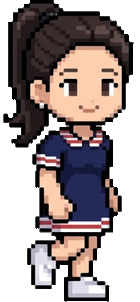
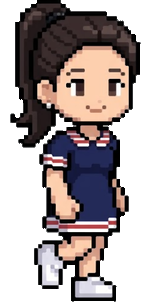
Pitcha: usa a pose parada enviada e padroniza os 5 frames
- Idle vem da imagem enviada (já recortada, na escala do jogo: o rosto tem
  a mesma largura dos frames de caminhada, 61 px)
- Os 5 arquivos saem com o mesmo canvas (154x302) e o centro de massa do
  corpo alinhado: variação de 0,9 px entre idle e caminhada
- tools/sheet_to_sprites.py aceita idle já recortado (--idle-image,
  --idle-scale) e passa a limpar vãos opacos entre braço e corpo (restos de
  fundo), como o do idle enviado
- Pitcha sai da linha de base de sprites (nenhuma faixa pendente)

Claude-Session: https://claude.ai/code/session_01JWARVxodwXbVVRqa2zBGJ1

diff --git a/tools/sheet_to_sprites.py b/tools/sheet_to_sprites.py
@@ -14,7 +14,7 @@ Uso (da raiz do repo, precisa de Pillow e numpy):
 
 Saída: assets/<name>_walk1..N.png e assets/<name>_idle.png (alpha só 0 ou 255).
 A ordem dos frames é a de leitura (esquerda->direita, cima->baixo).
-Para uma pose parada vinda de outra imagem, use --idle-image (processada com a mesma escala).
+Para uma pose parada vinda de outra imagem, use --idle-image (se já tiver fundo transparente é usada como está).
 Dependências só do desenvolvimento: o jogo continua sem build e sem npm/pip.
 """
 import argparse
@@ -138,6 +138,52 @@ def body_anchor_x(img):
     return float(xs.mean())
 
 
+def clear_gap_strips(img, max_width=8, min_rows=12, min_black_run=3):
+    """Torna transparentes as faixas verticais de 1–8 px de pixels CLAROS entre dois contornos pretos
+    (≥ min_rows linhas seguidas): é o vão entre braço e corpo que sobrou opaco (restos do fundo/pele).
+    Cabelo escuro e sombras são ignorados. Mesmo critério do teste tests/lib/sprites.js."""
+    a = np.array(img)
+    h, w, _ = a.shape
+    black = (a[..., 3] > 0) & (a[..., :3].max(axis=2) < 45)
+    light = (a[..., 3] > 0) & (a[..., :3].astype(int).sum(axis=2) > 270)
+    rows = []
+    for y in range(h):
+        gaps, x, runs = [], 0, []
+        while x < w:
+            if black[y, x]:
+                j = x
+                while j + 1 < w and black[y, j + 1]:
+                    j += 1
+                runs.append((x, j)); x = j + 1
+            else:
+                x += 1
+        for (s0, e0), (s1, e1) in zip(runs, runs[1:]):
+            g0, g1 = e0 + 1, s1 - 1
+            if e0 - s0 + 1 >= min_black_run and e1 - s1 + 1 >= min_black_run and 1 <= g1 - g0 + 1 <= max_width \
+                    and light[y, g0:g1 + 1].any():
+                gaps.append((g0, g1))
+        rows.append(gaps)
+    strips, open_ = [], []
+    for y in range(h):
+        nxt = []
+        for g0, g1 in rows[y]:
+            prev = next((s for s in open_ if s['y1'] == y - 1 and g0 <= s['x1'] and g1 >= s['x0']), None)
+            if prev:
+                prev['y1'] = y; prev['x0'] = min(prev['x0'], g0); prev['x1'] = max(prev['x1'], g1); prev['rows'].append((y, g0, g1)); nxt.append(prev)
+            else:
+                st = {'x0': g0, 'x1': g1, 'y0': y, 'y1': y, 'rows': [(y, g0, g1)]}; strips.append(st); nxt.append(st)
+        open_ = nxt
+    cleared = 0
+    for st in strips:
+        if len(st['rows']) < min_rows:
+            continue
+        for y, g0, g1 in st['rows']:
+            for x in range(g0, g1 + 1):
+                if a[y, x, 3] > 0 and int(a[y, x, :3].astype(int).sum()) > 270:   # só o claro; preserva o contorno escuro
+                    a[y, x] = (0, 0, 0, 0); cleared += 1
+    return Image.fromarray(a, 'RGBA'), cleared
+
+
 def binarize_alpha(img):
     a = np.array(img)
     a[..., 3] = np.where(a[..., 3] >= 128, 255, 0)
@@ -156,7 +202,11 @@ def main():
     ap.add_argument('--height', type=int, default=302, help='altura do canvas e do frame mais alto (igual aos outros personagens)')
     ap.add_argument('--outline-px', type=int, default=6, help='espessura (px da folha) do contorno refeito na sola cortada')
     ap.add_argument('--idle-from', type=int, help='índice (0..N-1) do frame usado como parado (idle) provisório')
-    ap.add_argument('--idle-image', help='imagem separada da pose parada (usa a mesma escala dos frames)')
+    ap.add_argument('--idle-image', help='imagem separada da pose parada. Com fundo transparente é usada como está '
+                    '(já na escala do jogo, ver --idle-scale); sem transparência passa pela remoção de fundo e usa a escala dos frames')
+    ap.add_argument('--idle-scale', type=float, default=1.0,
+                    help='fator aplicado a um --idle-image transparente (1.0 = já está na escala do jogo; confira comparando a largura do rosto)')
+    ap.add_argument('--no-clean-gaps', dest='clean_gaps', action='store_false', help='não limpa vãos opacos entre braço e corpo')
     ap.add_argument('--out', default='assets')
     ap.add_argument('--preview', help='grava uma folha de conferência sobre fundo verde')
     args = ap.parse_args()
@@ -189,29 +239,40 @@ def main():
             frames.append(img)
             rebuilt_flags.append(rebuilt)
 
-    idle_extra = None
+    idle_extra, idle_ready = None, False
     if args.idle_image:
-        idle_extra, _ = extract_frame(Image.open(args.idle_image).convert('RGB'), True, args.outline_px)
-    allf = frames + ([idle_extra] if idle_extra else [])
+        src = Image.open(args.idle_image)
+        if src.mode in ('RGBA', 'LA') and np.array(src.convert('RGBA'))[..., 3].min() == 0:
+            # Já recortado (fundo transparente): usa o alpha dele, sem mexer nas cores
+            idle_extra = src.convert('RGBA')
+            idle_extra = idle_extra.crop(idle_extra.getchannel('A').getbbox())
+            idle_ready = True
+        else:
+            idle_extra, _ = extract_frame(src.convert('RGB'), True, args.outline_px)
+    allf = frames + ([idle_extra] if idle_extra is not None else [])
 
-    # Escala única: o frame mais alto fica com a altura do canvas
-    scale = args.height / max(f.height for f in allf)
+    # Escala única: o frame mais alto da folha fica com a altura do canvas.
+    # Um idle já pronto entra na escala que ele tem (--idle-scale), pois já está no tamanho do jogo.
+    scale = args.height / max(f.height for f in frames)
+    scales = [scale] * len(frames) + ([args.idle_scale if idle_ready else scale] if idle_extra is not None else [])
     anchors = [body_anchor_x(f) for f in allf]
-    left = max(a for a in anchors)
-    right = max(f.width - a for f, a in zip(allf, anchors))
-    half = int(np.ceil(max(left, right) * scale)) + 1
+    half = int(np.ceil(max(max(a * sc, (f.width - a) * sc) for f, a, sc in zip(allf, anchors, scales)))) + 1
     canvas_w = half * 2
 
-    def compose(img, anchor):
+    def compose(img, anchor, scale):
         size = (max(1, round(img.width * scale)), max(1, round(img.height * scale)))
         # RGBa (alpha pré-multiplicado): evita franja escura/clara nas bordas ao reduzir
         s = binarize_alpha(img.convert('RGBa').resize(size, Image.LANCZOS).convert('RGBA'))
         canvas = Image.new('RGBA', (canvas_w, args.height), (0, 0, 0, 0))
         x = int(round(half - anchor * scale))
         canvas.alpha_composite(s, (x, args.height - s.height))
+        if args.clean_gaps:
+            canvas, n = clear_gap_strips(canvas)
+            cleaned.append(n)
         return canvas
 
-    outs = [compose(f, a) for f, a in zip(allf, anchors)]
+    cleaned = []
+    outs = [compose(f, a, sc) for f, a, sc in zip(allf, anchors, scales)]
     walk = outs[:len(frames)]
     idle = outs[-1] if idle_extra else (walk[args.idle_from] if args.idle_from is not None else None)
     for i, im in enumerate(walk, 1):
@@ -220,6 +281,8 @@ def main():
         idle.save(f'{args.out}/{args.name}_idle.png')
 
     print(f'escala {scale:.3f} | canvas {canvas_w}x{args.height} | frames {len(walk)}')
+    if args.clean_gaps and any(cleaned):
+        print('  vãos opacos entre braço e corpo limpos (pixels por frame): ' + ', '.join(str(n) for n in cleaned))
     for i, (f, a, rb) in enumerate(zip(allf, anchors, rebuilt_flags + [False]), 1):
         print(f'  frame {i}: figura {f.width}x{f.height}px na folha, eixo do corpo x={a:.0f}' + (' (sola refeita)' if rb else ''))
     if args.preview:
